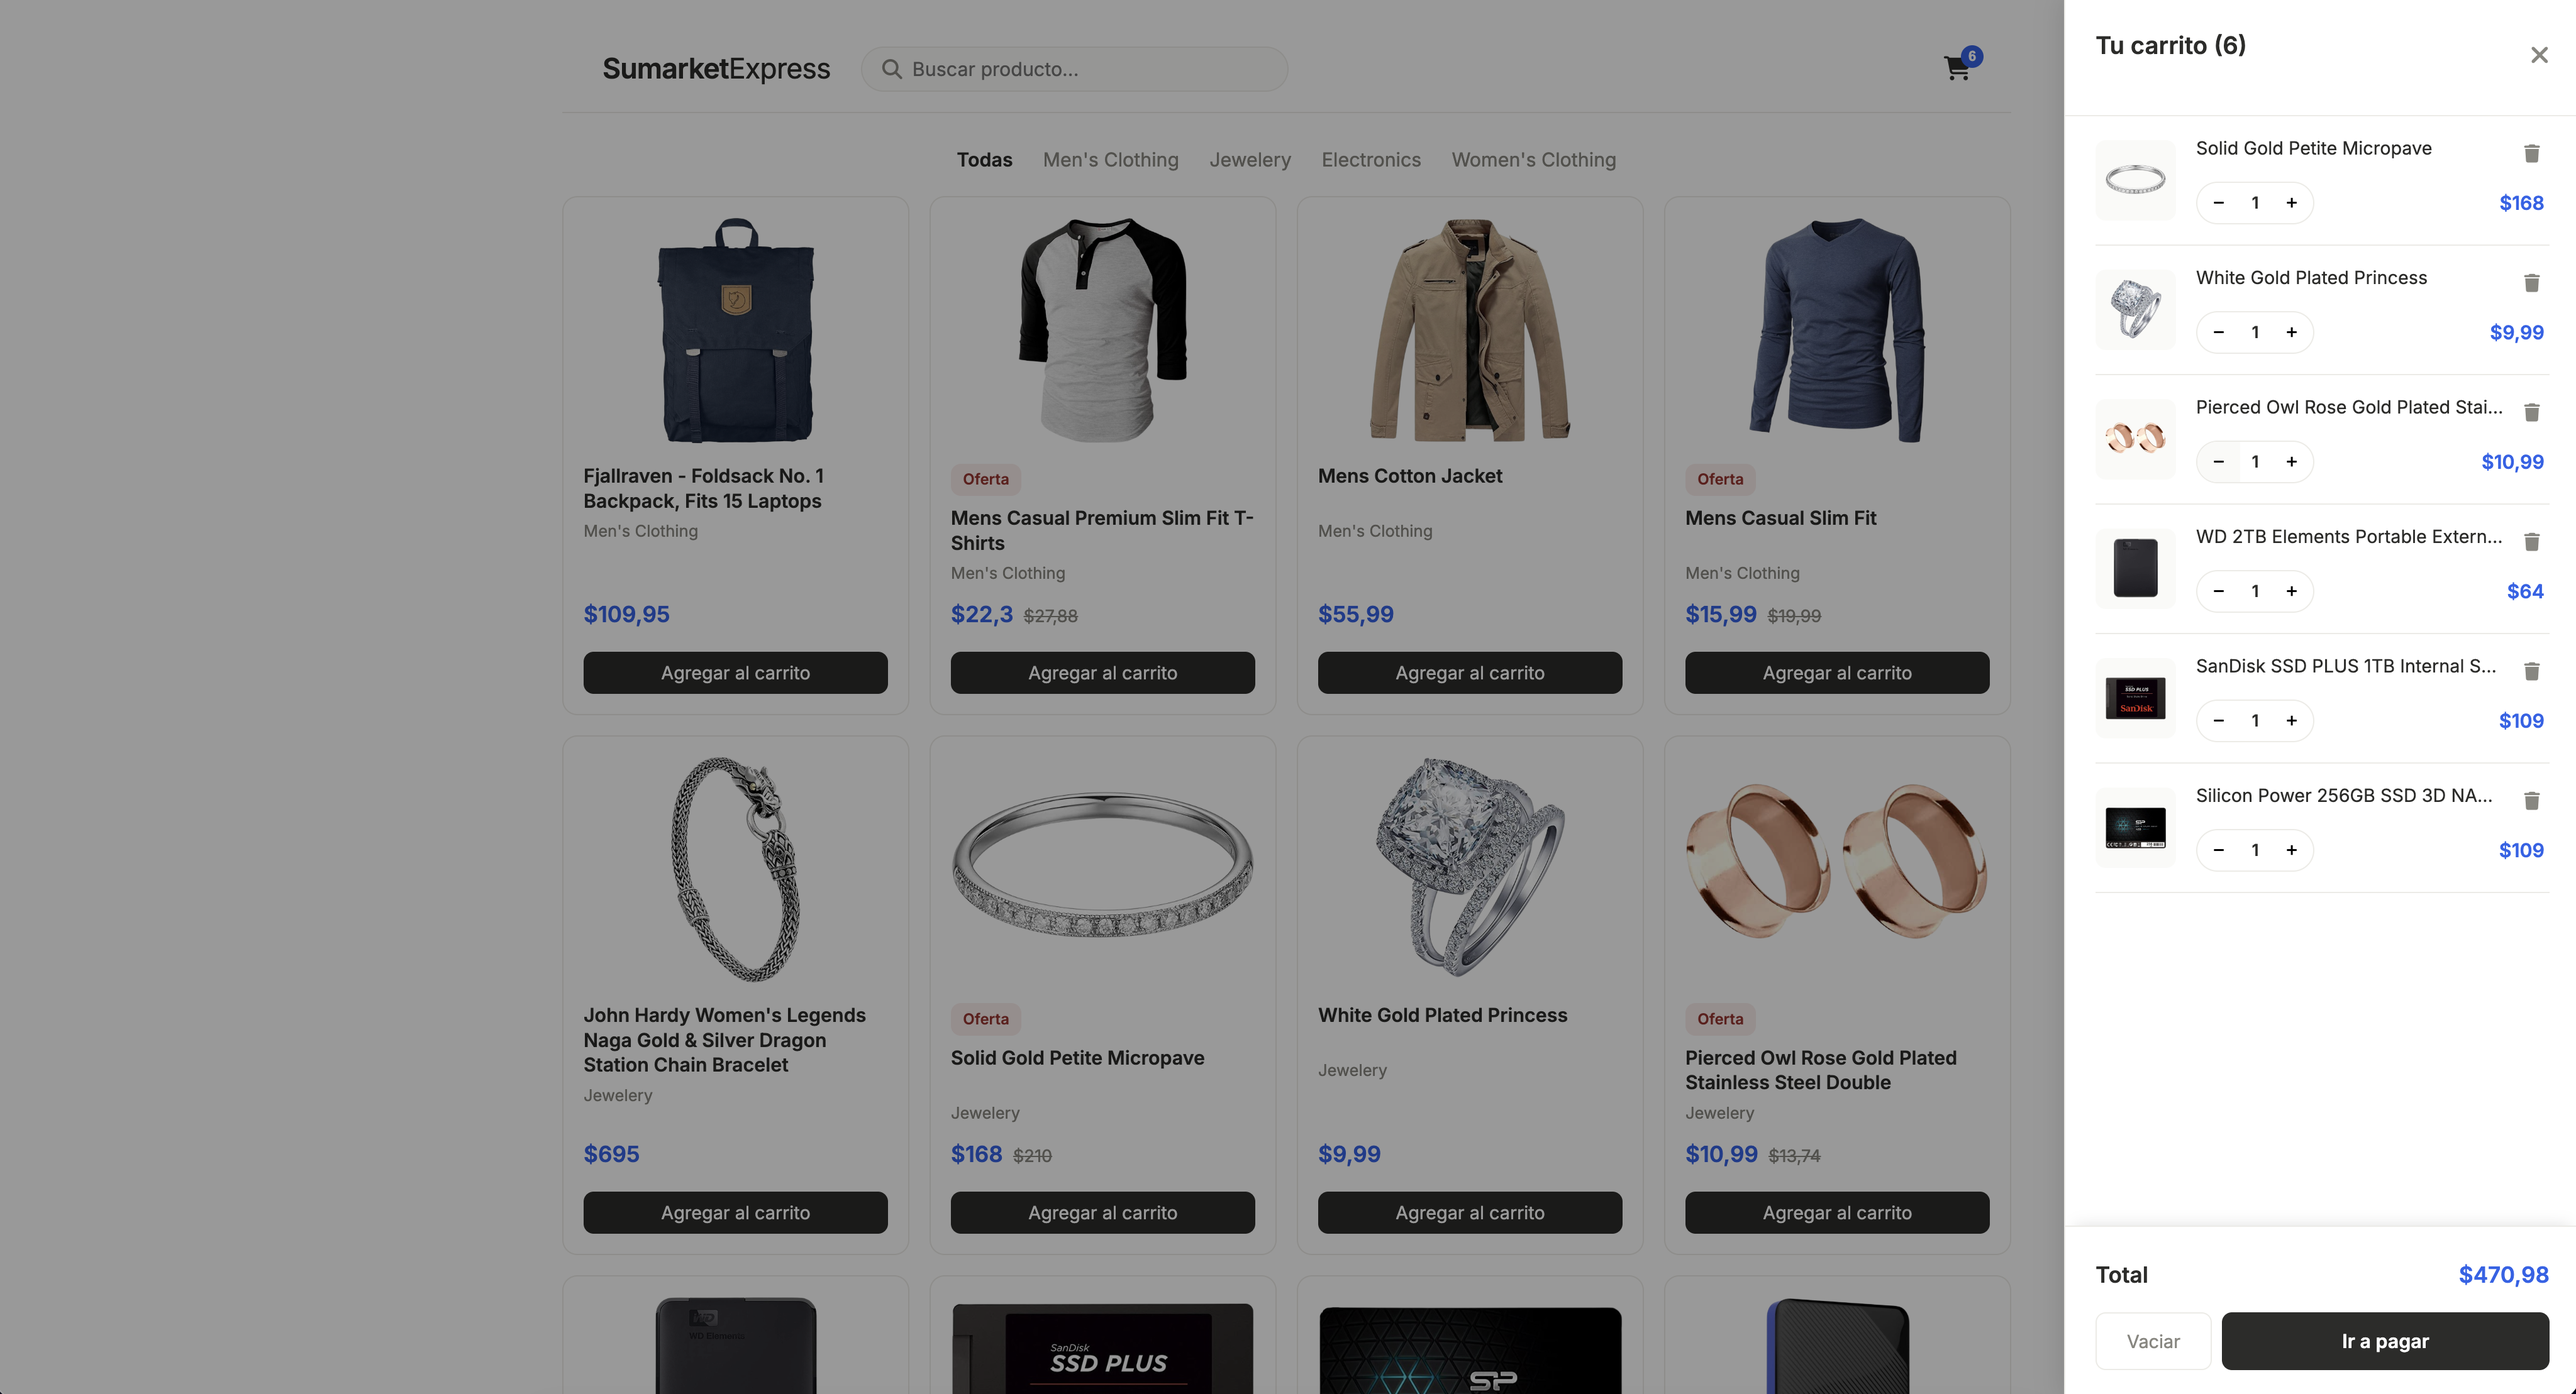
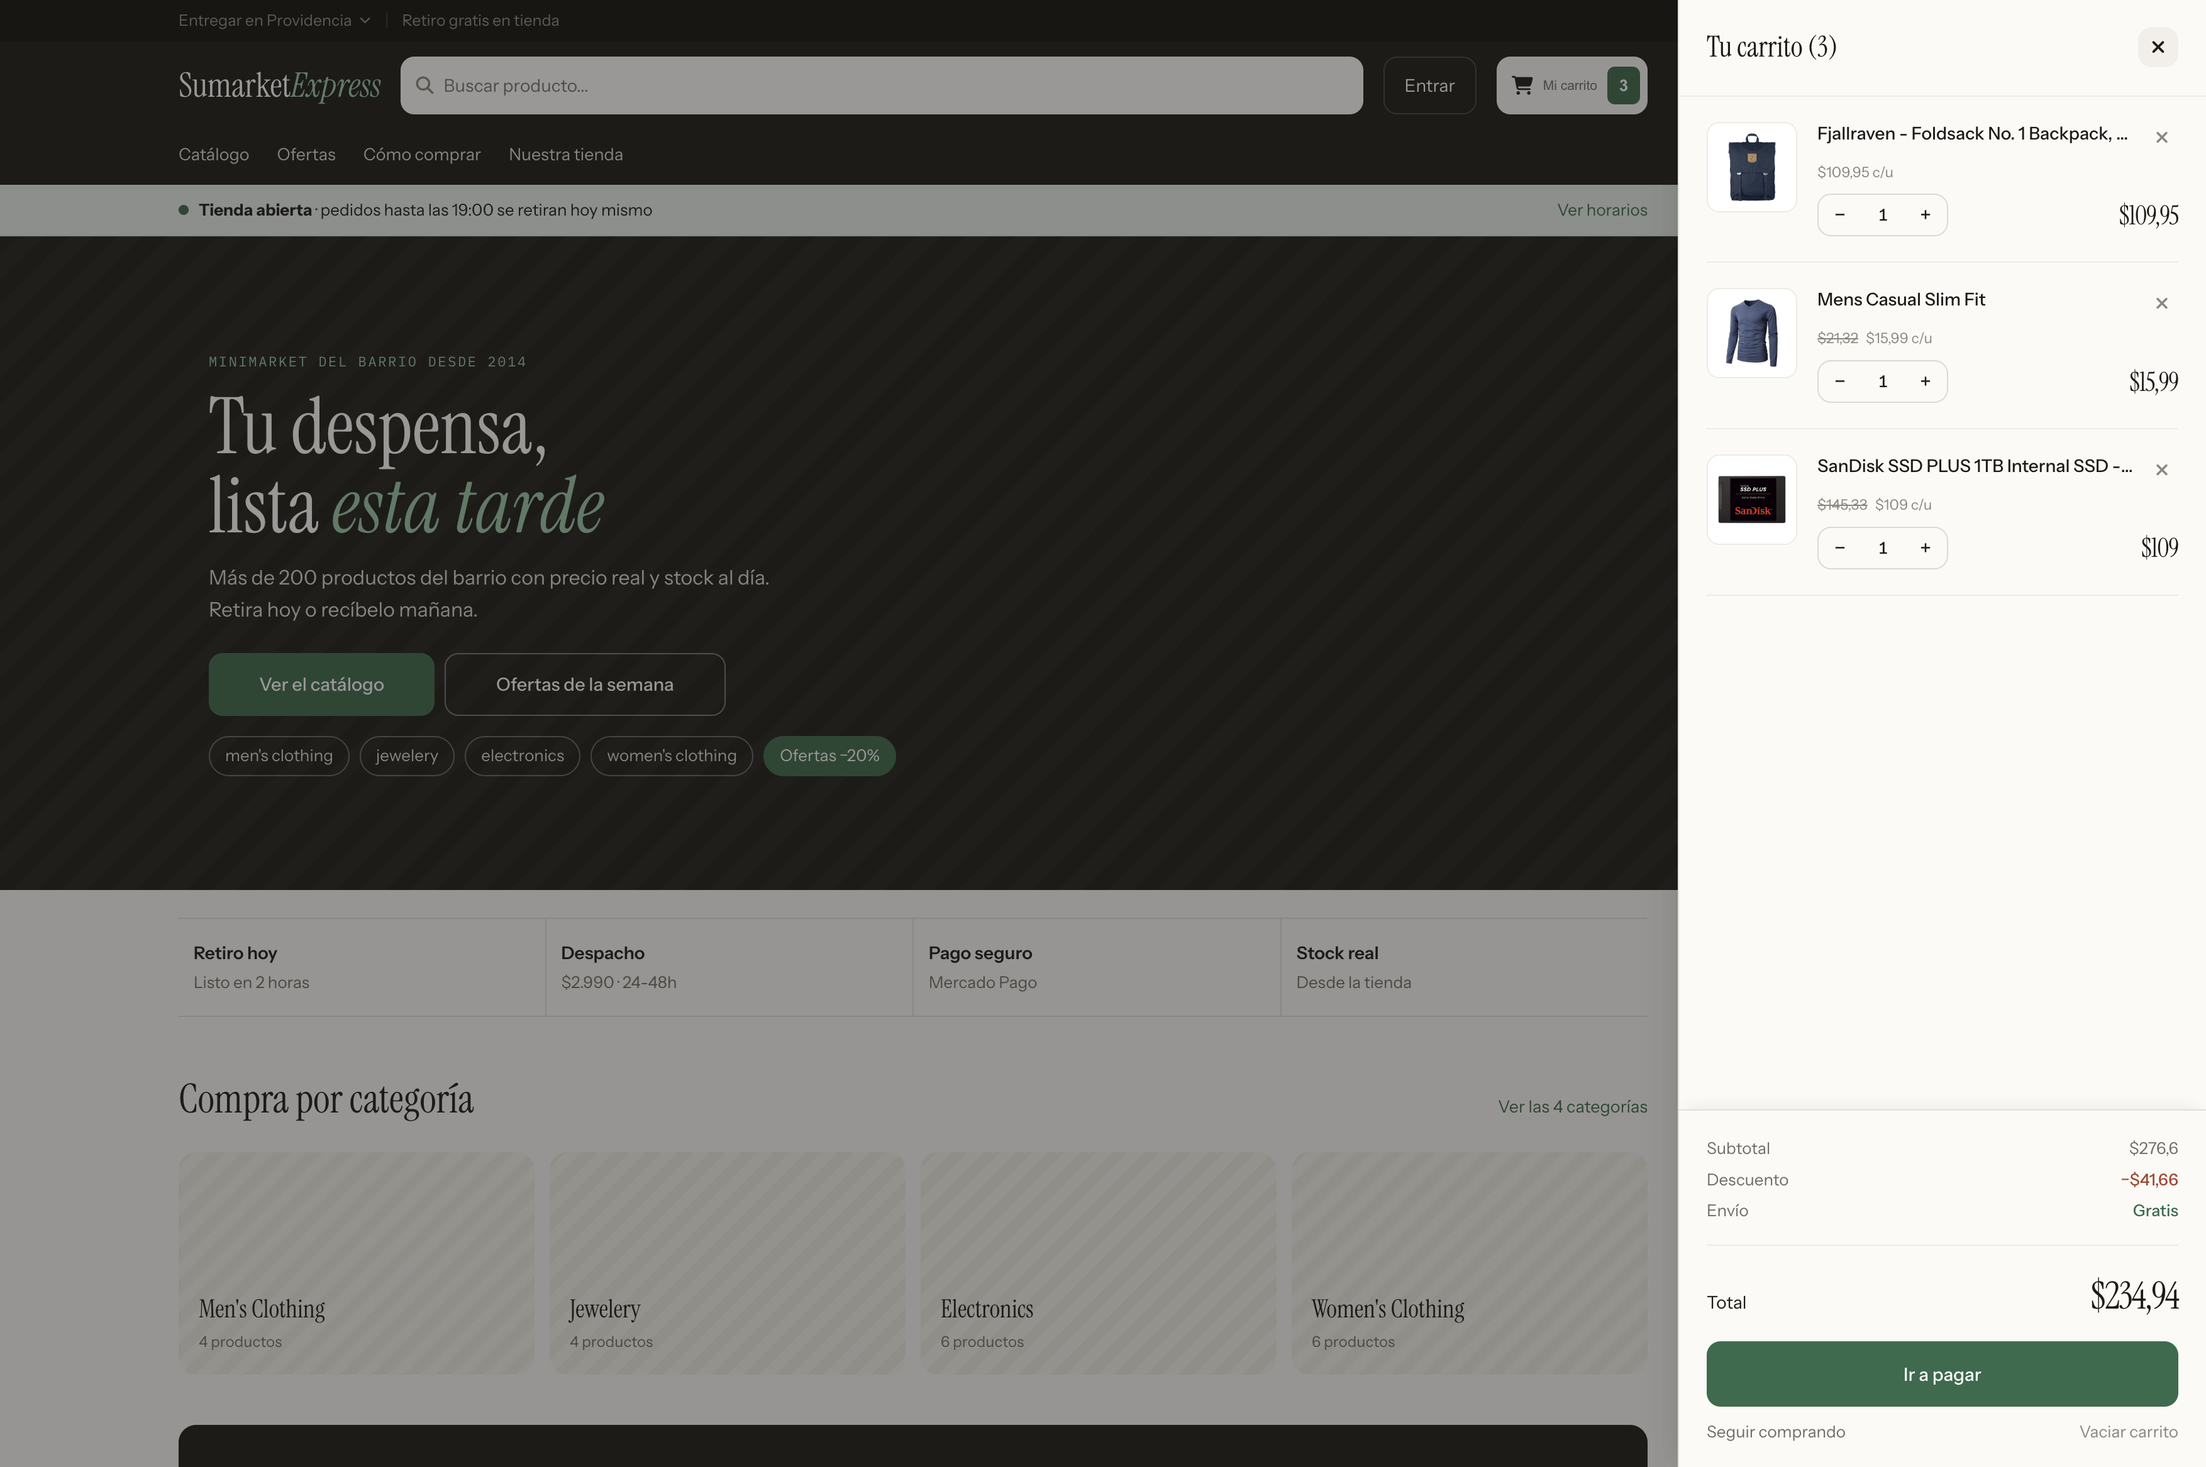
actualizar readme y agregar captura vista detalle

diff --git a/README.md b/README.md
@@ -14,6 +14,8 @@ Los productos se obtienen en tiempo real desde una API externa pública y se nor
 
 ![Vista del carrito de compras](./src/assets/vistaCarrito.png)
 
+![Vista detalle de producto](./src/assets/vistaDetalle.png)
+
 ## 🛠 Tecnologías
 
 - **React 19** — Hooks (`useState`, `useEffect`, `useReducer`, `useContext`) y **custom hooks**
@@ -36,7 +38,9 @@ Los productos se obtienen en tiempo real desde una API externa pública y se nor
 - **Normalización de datos**: la respuesta de la API se transforma al formato propio de la app, desacoplando la UI de la estructura externa.
 - **Enrutamiento SPA con React Router**: rutas para el catálogo (`/`) y el **detalle de cada producto** (`/producto/:id`), con navegación por URL y botón "atrás" del navegador. Los *deep links* y el refresco funcionan en GitHub Pages gracias a un `404.html` (técnica spa-github-pages).
 - **Buscador en tiempo real** mediante un input controlado.
+- **Sugerencias de búsqueda** con productos y categorías; al llegar al catálogo, el término activo queda visible como chip removible.
 - **Filtros por categoría** generados dinámicamente con `Set` (sin hardcodear), con el overflow agrupado en un desplegable "Explorar X más".
+- **Ofertas reales derivadas** de `precioAnterior`: título con descuento máximo, filtro compartido entre CTA y catálogo, precio anterior tachado y tarjetas enlazadas a la ficha.
 - **Paginación tipo "cargar más"** en tandas, indicando cuántos productos quedan.
 - **Imágenes con red de seguridad**: un componente reutilizable muestra un placeholder elegante si la imagen externa falla (`onError`).
 
@@ -50,16 +54,18 @@ Los productos se obtienen en tiempo real desde una API externa pública y se nor
 - **Contador de ítems** en el ícono del header y en el título del panel.
 - **Cada ítem enlaza a su página de producto** y cierra el panel al navegar.
 - **UX del drawer**: se cierra con la tecla **Escape**, bloquea el scroll del fondo mientras está abierto, trunca nombres largos con elipsis y muestra un **estado vacío** con ícono y llamada a la acción.
+- **Estado vacío útil**: los CTA del drawer llevan al catálogo completo o al catálogo filtrado por ofertas reales.
 
 ### Arquitectura, calidad y diseño
 
 - **Estado global con Context API** (`CarritoProvider` + hook consumidor `useCarritoContext`), eliminando el *prop drilling*.
 - **Lógica del carrito centralizada con `useReducer`** dentro de un **custom hook `useCarrito`** (acciones `AGREGAR`, `ELIMINAR`, `CAMBIAR_CANTIDAD`, `VACIAR`).
 - **Tests unitarios con Vitest + React Testing Library** sobre el reducer del carrito.
-- **Diseño responsive** para móvil, tablet y escritorio: grid adaptable (4 / 3 / 2 / 1 columnas) y header reorganizado en pantallas pequeñas.
+- **Diseño responsive** para móvil, tablet y escritorio: grid adaptable (5 / 4 / 3 / 2 columnas) y header reorganizado en pantallas pequeñas.
 - **Accesibilidad (ARIA)**: `aria-expanded`, `aria-controls`, `aria-label`, `role` de estado/alerta y respeto por `prefers-reduced-motion`.
 - **Sistema de diseño propio** basado en design tokens (variables CSS para colores, espaciado y tipografía), con una estética minimalista y sobria.
-- **Footer con navegación e identidad del proyecto**: enlaces por ancla a las secciones principales y a redes sociales.
+- **Footer con navegación e identidad del proyecto**: enlaces por ancla, ofertas y hasta cuatro categorías reales derivadas del catálogo.
+- **Marcas en góndola preparadas para assets locales**: los logos futuros vivirán en `public/marcas/` y su orden/visibilidad en `src/data/marcas.js`; no requieren backend ni panel de administración por ahora.
 
 ## 📚 Lo que aprendí
 
@@ -96,7 +102,7 @@ Este proyecto es mi campo de práctica para consolidar React y buenas prácticas
 
 SumarketExpress es un proyecto **full-stack en construcción**, desarrollado por fases (una a la vez) para convertirse en una **tienda completa**:
 
-- ✅ **Frontend profesional**  — React con hooks, `useReducer`, Context, React Router y tests unitarios.
+- ✅ **Frontend estructurado**  — React con hooks, `useReducer`, Context, React Router y tests unitarios.
 - 🔜 **Backend propio** — API REST con **Node.js + Express** y base de datos **PostgreSQL + Prisma** (reemplaza a la API externa).
 - 🔒 **Autenticación** — cuentas de usuario con **JWT** y contraseñas hasheadas con **bcrypt**; roles usuario/admin.
 - 💳 **Pagos reales** — checkout con **Stripe / Mercado Pago** (modo test).
